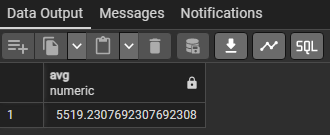
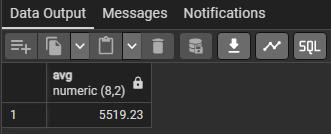
updated exercise 8

diff --git a/readme.md b/readme.md
@@ -123,7 +123,7 @@ SELECT * FROM corporativo.funcionario
 ## Exercício 8
 - Comandos SQL <br>
 ```
-SELECT AVG(pretensao_salarial) FROM corporativo.funcionario;
+SELECT AVG(pretensao_salarial)::NUMERIC(8,2) FROM corporativo.funcionario;
 ```
 <br>
 
